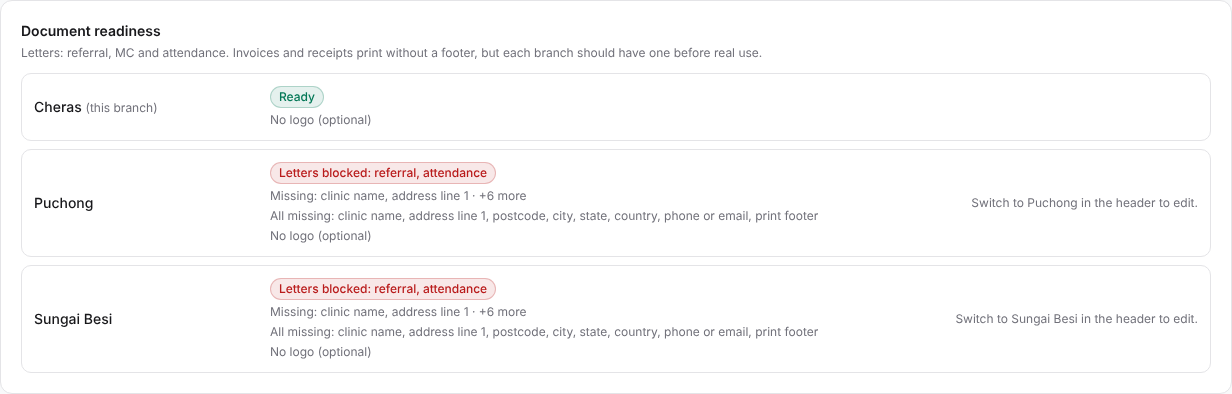
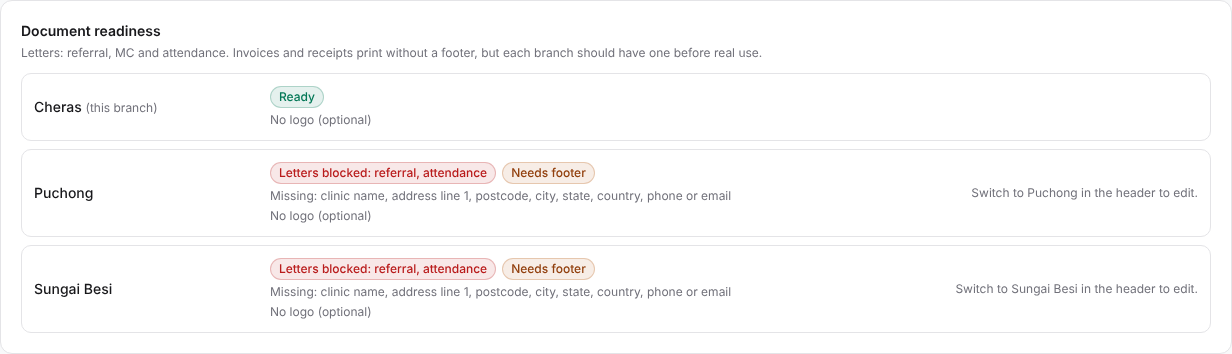
CAT-4: Daniel's changes (footer as its own warning, full missing list from 768 px, 'Show all N missing' on a phone)
Claude-Session: https://claude.ai/code/session_01MHFmnVyVJEum6VMCHbKqEk

diff --git a/resources/js/pages/BusinessDetails/Index.vue b/resources/js/pages/BusinessDetails/Index.vue
@@ -4,7 +4,6 @@ import { useForm } from '@inertiajs/vue3';
 import { computed, nextTick, onUnmounted, ref, watch } from 'vue';
 import InputError from '@/components/InputError.vue';
 import { Button } from '@/components/ui/button';
-import { DisclosureText } from '@/components/ui/disclosure';
 import { EmptyState } from '@/components/ui/state';
 import { StatusBadge } from '@/components/ui/status';
 
@@ -315,27 +314,49 @@ const reload = () =>
                                 :label="readinessLabel(row)"
                                 :tone="readinessTone(row)"
                             />
-                        </div>
-                        <p
-                            v-if="row.missing.length"
-                            class="text-xs break-words text-muted-foreground"
-                        >
-                            Missing: {{ shownMissing(row).join(', ')
-                            }}<template v-if="hiddenMissing(row).length">
-                                · +{{
-                                    hiddenMissing(row).length
-                                }}
-                                more</template
-                            >
-                        </p>
-                        <div
-                            v-if="hiddenMissing(row).length"
-                            class="min-w-0 text-xs"
-                        >
-                            <DisclosureText
-                                :text="`All missing: ${row.missing.join(', ')}`"
+                            <StatusBadge
+                                v-if="
+                                    !row.hasFooter &&
+                                    row.status === 'letters_blocked'
+                                "
+                                status="document_readiness_footer"
+                                label="Needs footer"
+                                tone="warning"
                             />
                         </div>
+                        <template v-if="row.missing.length">
+                            <p
+                                class="hidden text-xs break-words text-muted-foreground md:block"
+                                data-testid="missing-full"
+                            >
+                                Missing: {{ row.missing.join(', ') }}
+                            </p>
+                            <p
+                                class="text-xs break-words text-muted-foreground md:hidden"
+                                data-testid="missing-short"
+                            >
+                                Missing: {{ shownMissing(row).join(', ')
+                                }}<template v-if="hiddenMissing(row).length">
+                                    · +{{
+                                        hiddenMissing(row).length
+                                    }}
+                                    more</template
+                                >
+                            </p>
+                            <details
+                                v-if="hiddenMissing(row).length"
+                                class="text-xs text-muted-foreground md:hidden"
+                            >
+                                <summary
+                                    class="flex min-h-11 cursor-pointer items-center font-medium text-foreground"
+                                >
+                                    Show all {{ row.missing.length }} missing
+                                </summary>
+                                <p class="break-words">
+                                    {{ row.missing.join(', ') }}
+                                </p>
+                            </details>
+                        </template>
                         <p
                             v-if="row.logoState === 'none'"
                             class="text-xs text-muted-foreground"
@@ -343,7 +364,10 @@ const reload = () =>
                             No logo (optional)
                         </p>
                     </div>
-                    <div v-if="row.missing.length" class="min-w-0 text-xs">
+                    <div
+                        v-if="row.missing.length || !row.hasFooter"
+                        class="min-w-0 text-xs"
+                    >
                         <Button
                             v-if="row.isActive && canFix(row)"
                             variant="ghost"

diff --git a/tests/Feature/DocumentReadinessTest.php b/tests/Feature/DocumentReadinessTest.php
@@ -74,7 +74,9 @@ class DocumentReadinessTest extends VisitTestCase
 
         $row = $this->row();
         $this->assertSame('needs_footer', $row['status']);
-        $this->assertSame(['print footer'], $row['missing']);
+        // The footer blocks no letter, so it is never in the blocking list; it is reported as hasFooter.
+        $this->assertSame([], $row['missing']);
+        $this->assertFalse($row['hasFooter']);
         $this->assertSame([], $row['blockedLetters']);
         $this->assertTrue($row['isActive']);
         $this->assertSame('none', $row['logoState']);
@@ -106,9 +108,10 @@ class DocumentReadinessTest extends VisitTestCase
 
         $this->assertSame('letters_blocked', $row['status']);
         $this->assertSame(
-            ['clinic name', 'address line 1', 'postcode', 'city', 'state', 'country', 'phone or email', 'print footer'],
+            ['clinic name', 'address line 1', 'postcode', 'city', 'state', 'country', 'phone or email'],
             $row['missing'],
         );
+        $this->assertFalse($row['hasFooter']);
     }
 
     public function test_a_configured_logo_that_is_missing_or_changed_blocks_every_letter_and_a_good_one_is_fine(): void

diff --git a/app/Domain/Organisation/BusinessDetails/DocumentReadinessService.php b/app/Domain/Organisation/BusinessDetails/DocumentReadinessService.php
@@ -66,9 +66,7 @@ final class DocumentReadinessService
                 $missing[] = 'logo (configured but unavailable)';
             }
             $hasFooter = trim((string) $footers->get($branch->id)?->text) !== '';
-            if (! $hasFooter) {
-                $missing[] = 'print footer';
-            }
+            // The footer blocks no letter, so it is reported on its own ("Needs footer"), never in the blocking list.
 
             $blockedLetters = match (true) {
                 $logoState === 'unavailable' => ['MC', 'referral', 'attendance'],
